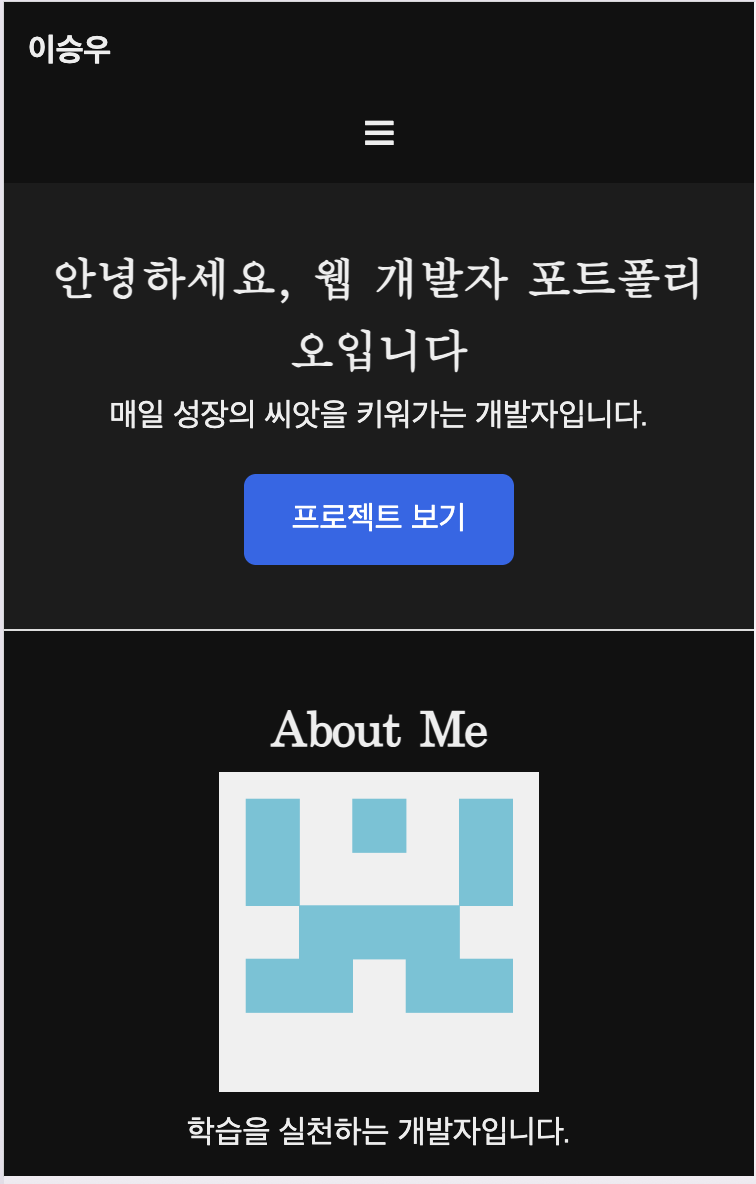
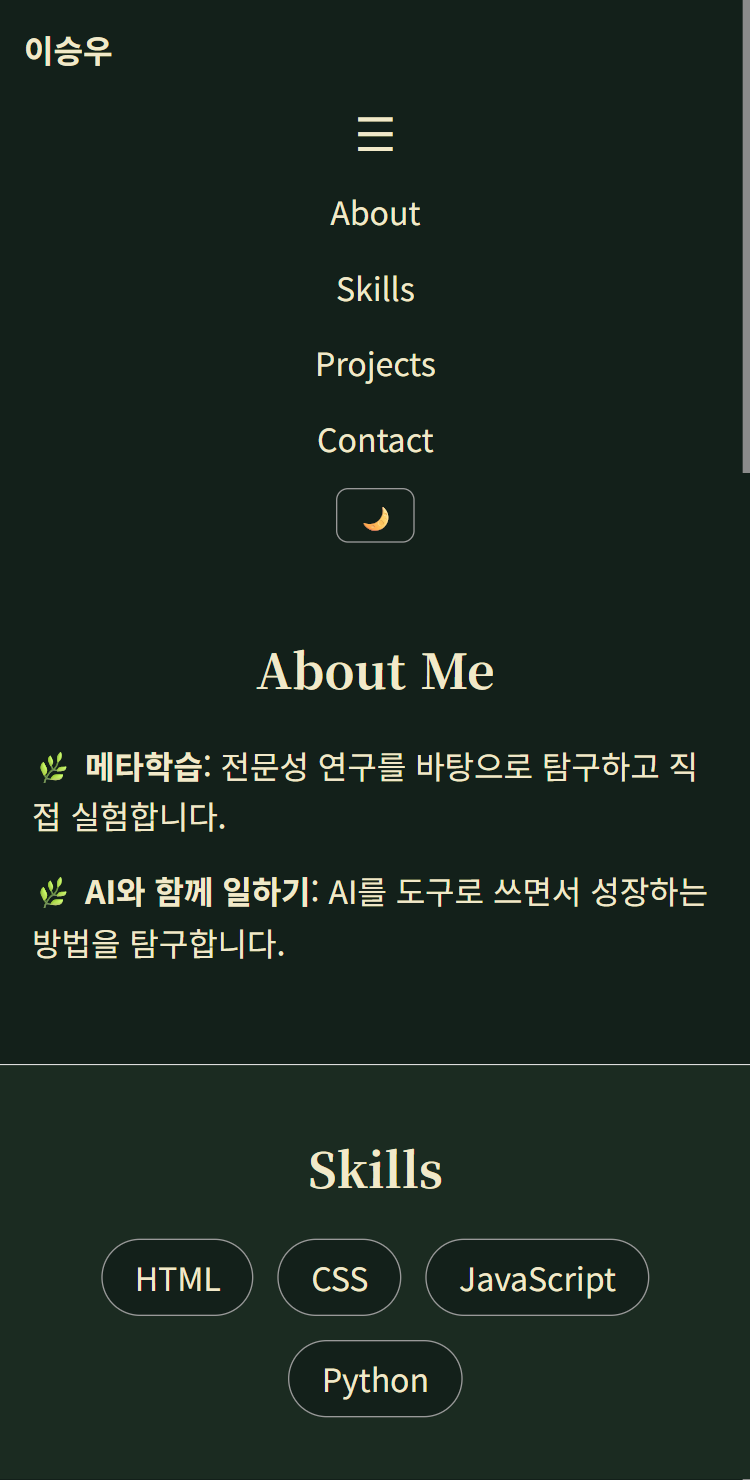
docs: 개인 README 스크린샷과 기능 설명을 현재 화면에 맞게 수정

diff --git a/team/sw0410/README.md b/team/sw0410/README.md
@@ -39,7 +39,7 @@ About · Skills · Projects · Contact · Footer
 | 반응형 | 기본은 폰 화면, 768px·1024px 이상에서 메뉴를 가로로 펼치고 여백·제목을 키운다 |
 | 햄버거 메뉴 | 좁은 화면에서 ☰를 누르면 메뉴가 열리고 닫힌다 |
 | 다크 모드 | 🌙 버튼으로 전환하고 `localStorage`에 저장해 새로고침 후에도 유지된다 (저장 키: `sw0410-theme`) |
-| 부드러운 스크롤 | 메뉴·CTA 링크를 누르면 해당 구역으로 부드럽게 이동한다 |
+| 부드러운 스크롤 | 메뉴 링크를 누르면 해당 구역으로 부드럽게 이동한다 |
 | 스크롤 등장 | 구역이 화면에 들어오면 서서히 나타난다 |
 | 맨 위로 버튼 | 아래로 내리면 나타나고, 누르면 맨 위로 부드럽게 이동한다 |
 | nav 배경 | 조금 내리면 메뉴 줄의 배경과 그림자가 바뀐다 |
